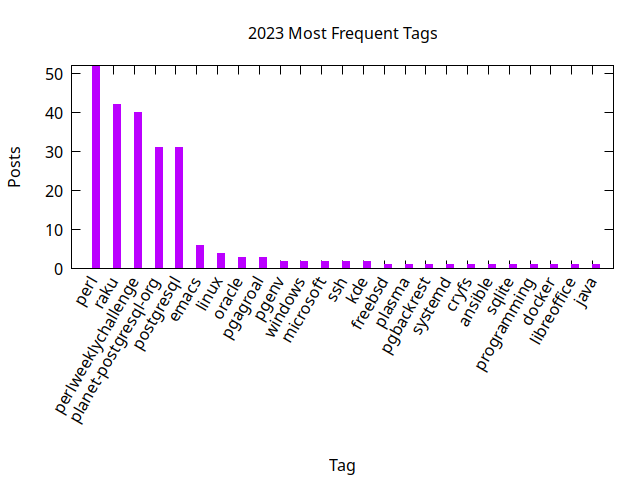
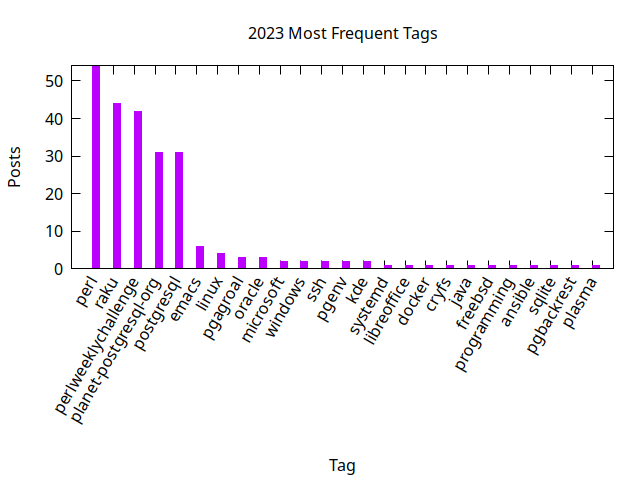
Stats update

diff --git a/_includes/stats/2023.md b/_includes/stats/2023.md
@@ -1,35 +1,35 @@
 <a name="2023" />
 ## 2023 (work in progress)
 
-**100 total posts** have been written on 2023.
+**102 total posts** have been written on 2023.
 There have been *25 different tags* used, the most
 popular being (sorted by number of posts):
  
-- *perl* (52 posts)  
-- *raku* (42 posts)  
-- *perlweeklychallenge* (40 posts)  
+- *perl* (54 posts)  
+- *raku* (44 posts)  
+- *perlweeklychallenge* (42 posts)  
 - *planet-postgresql-org* (31 posts)  
 - *postgresql* (31 posts)  
 - *emacs* (6 posts)  
 - *linux* (4 posts)  
-- *oracle* (3 posts)  
 - *pgagroal* (3 posts)  
-- *pgenv* (2 posts)  
-- *windows* (2 posts)  
+- *oracle* (3 posts)  
 - *microsoft* (2 posts)  
+- *windows* (2 posts)  
 - *ssh* (2 posts)  
+- *pgenv* (2 posts)  
 - *kde* (2 posts)  
-- *freebsd* (1 posts)  
-- *plasma* (1 posts)  
-- *pgbackrest* (1 posts)  
 - *systemd* (1 posts)  
+- *libreoffice* (1 posts)  
+- *docker* (1 posts)  
 - *cryfs* (1 posts)  
+- *java* (1 posts)  
+- *freebsd* (1 posts)  
+- *programming* (1 posts)  
 - *ansible* (1 posts)  
 - *sqlite* (1 posts)  
-- *programming* (1 posts)  
-- *docker* (1 posts)  
-- *libreoffice* (1 posts)  
-- *java* (1 posts).<br/>
+- *pgbackrest* (1 posts)  
+- *plasma* (1 posts).<br/>
 <br/>
 The following is the overall 2023 post ratio by month:
 <br/>
@@ -48,7 +48,7 @@ The following is the overall 2023 post ratio by tag (showing max 30 tags):
 
 <div align="right">
 <small>
-Last generated on 2023-12-07 at 17:53
+Last generated on 2023-12-18 at 14:44
 </small>
 </div>
 
